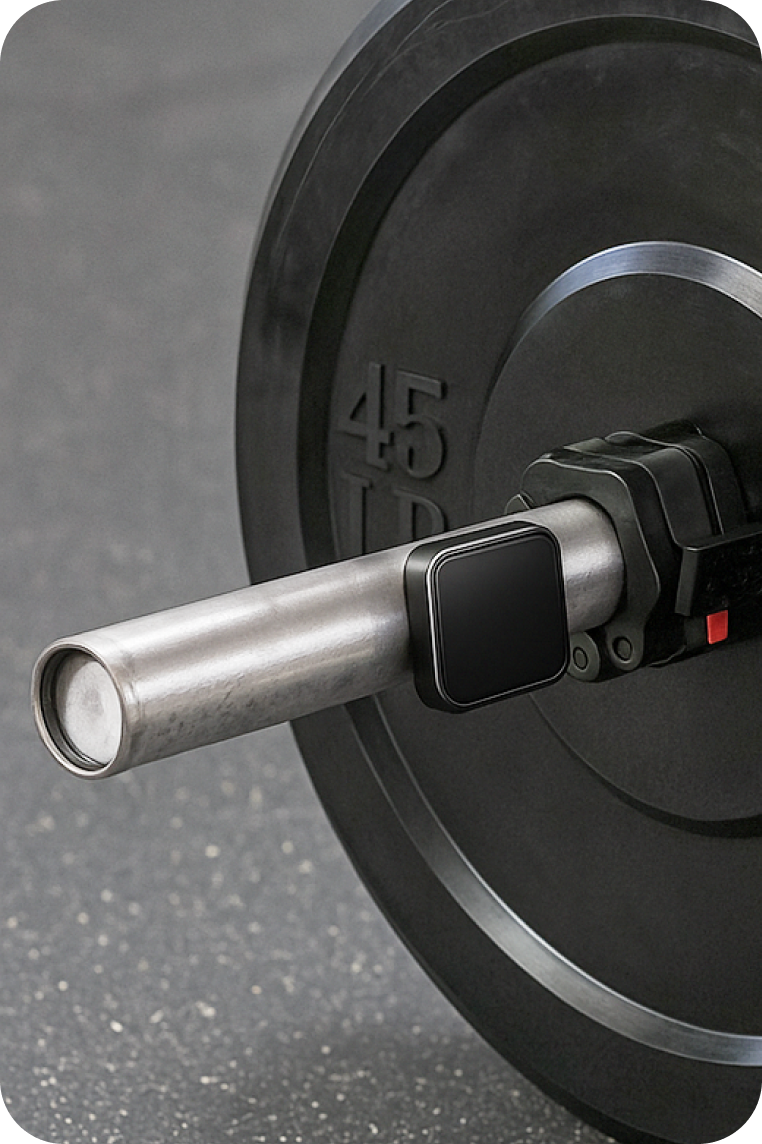
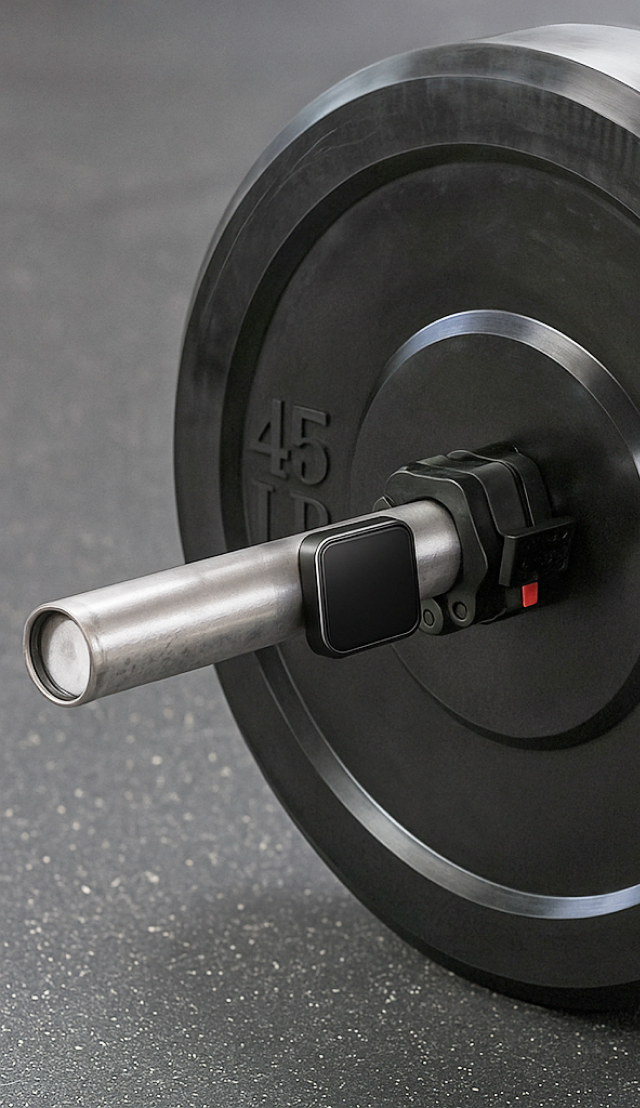
image nits

diff --git a/css/style.css b/css/style.css
@@ -249,31 +249,30 @@ body {
   display: grid;
   grid-template-columns: repeat(3, minmax(0, 1fr));
   gap: clamp(1.5rem, 5.5vw, 2.8rem);
-  align-items: end;
+  align-items: start;
 }
 
 .factor-card {
   display: flex;
   flex-direction: column;
   align-items: center;
-  justify-content: flex-end;
+  justify-content: flex-start;
   text-align: center;
   gap: clamp(0.65rem, 2vw, 1.2rem);
 }
 
 .factor-image-wrap {
-  height: clamp(360px, 45.6vw, 456px);
+  height: clamp(420px, 52vw, 560px);
   display: flex;
-  align-items: flex-end;
+  align-items: flex-start;
   justify-content: center;
 }
 
 .factor-image {
   width: auto;
   max-width: 100%;
-  max-height: clamp(312px, 40.8vw, 432px);
+  max-height: clamp(380px, 46vw, 520px);
   display: block;
-  border-radius: clamp(1rem, 3.5vw, 1.75rem);
 }
 
 .factor-copy {
@@ -282,6 +281,7 @@ body {
   align-items: center;
   gap: clamp(0.35rem, 1.2vw, 0.6rem);
   width: clamp(16rem, 26vw, 21rem);
+  text-align: center;
 }
 
 .factor-title {
@@ -296,14 +296,7 @@ body {
   color: rgba(15, 23, 42, 0.7);
 }
 
-.factor-card-evan .factor-image-wrap {
-  height: clamp(504px, 57.6vw, 624px);
-}
 
-.factor-card-evan .factor-image {
-  max-height: clamp(408px, 52.8vw, 552px);
-  border-radius: clamp(1.25rem, 3.8vw, 2.4rem);
-}
 
 .community-banner {
   background: #f2f2f2;
@@ -469,19 +462,19 @@ body {
   }
 
   .factor-image {
-    max-height: clamp(330px, 98vw, 420px);
+    height: clamp(420px, 120vw, 540px);
   }
 
   .factor-copy {
-    width: clamp(14rem, 72vw, 19rem);
+    height: clamp(420px, 120vw, 540px);
   }
 
   .factor-description {
-    font-size: clamp(1.05rem, 6vw, 1.25rem);
+    max-height: clamp(390px, 110vw, 520px);
   }
 
   .factor-card-evan .factor-image {
-    max-height: clamp(330px, 98vw, 420px);
+    max-height: clamp(390px, 110vw, 520px);
   }
 
   .factor-card-evan .factor-copy {

diff --git a/js/script.js b/js/script.js
@@ -27,7 +27,7 @@ const swiper = new Swiper('.swiper', {
     const end = insights.offsetTop;
     const range = Math.max(end - start, 1);
     const progress = clamp((window.scrollY - start) / range, 0, 1);
-    root.style.setProperty('--logo-invert', (1 - progress).toFixed(3));
+    root.style.setProperty('--logo-invert', progress.toFixed(3));
   };
 
   updateLogo();
